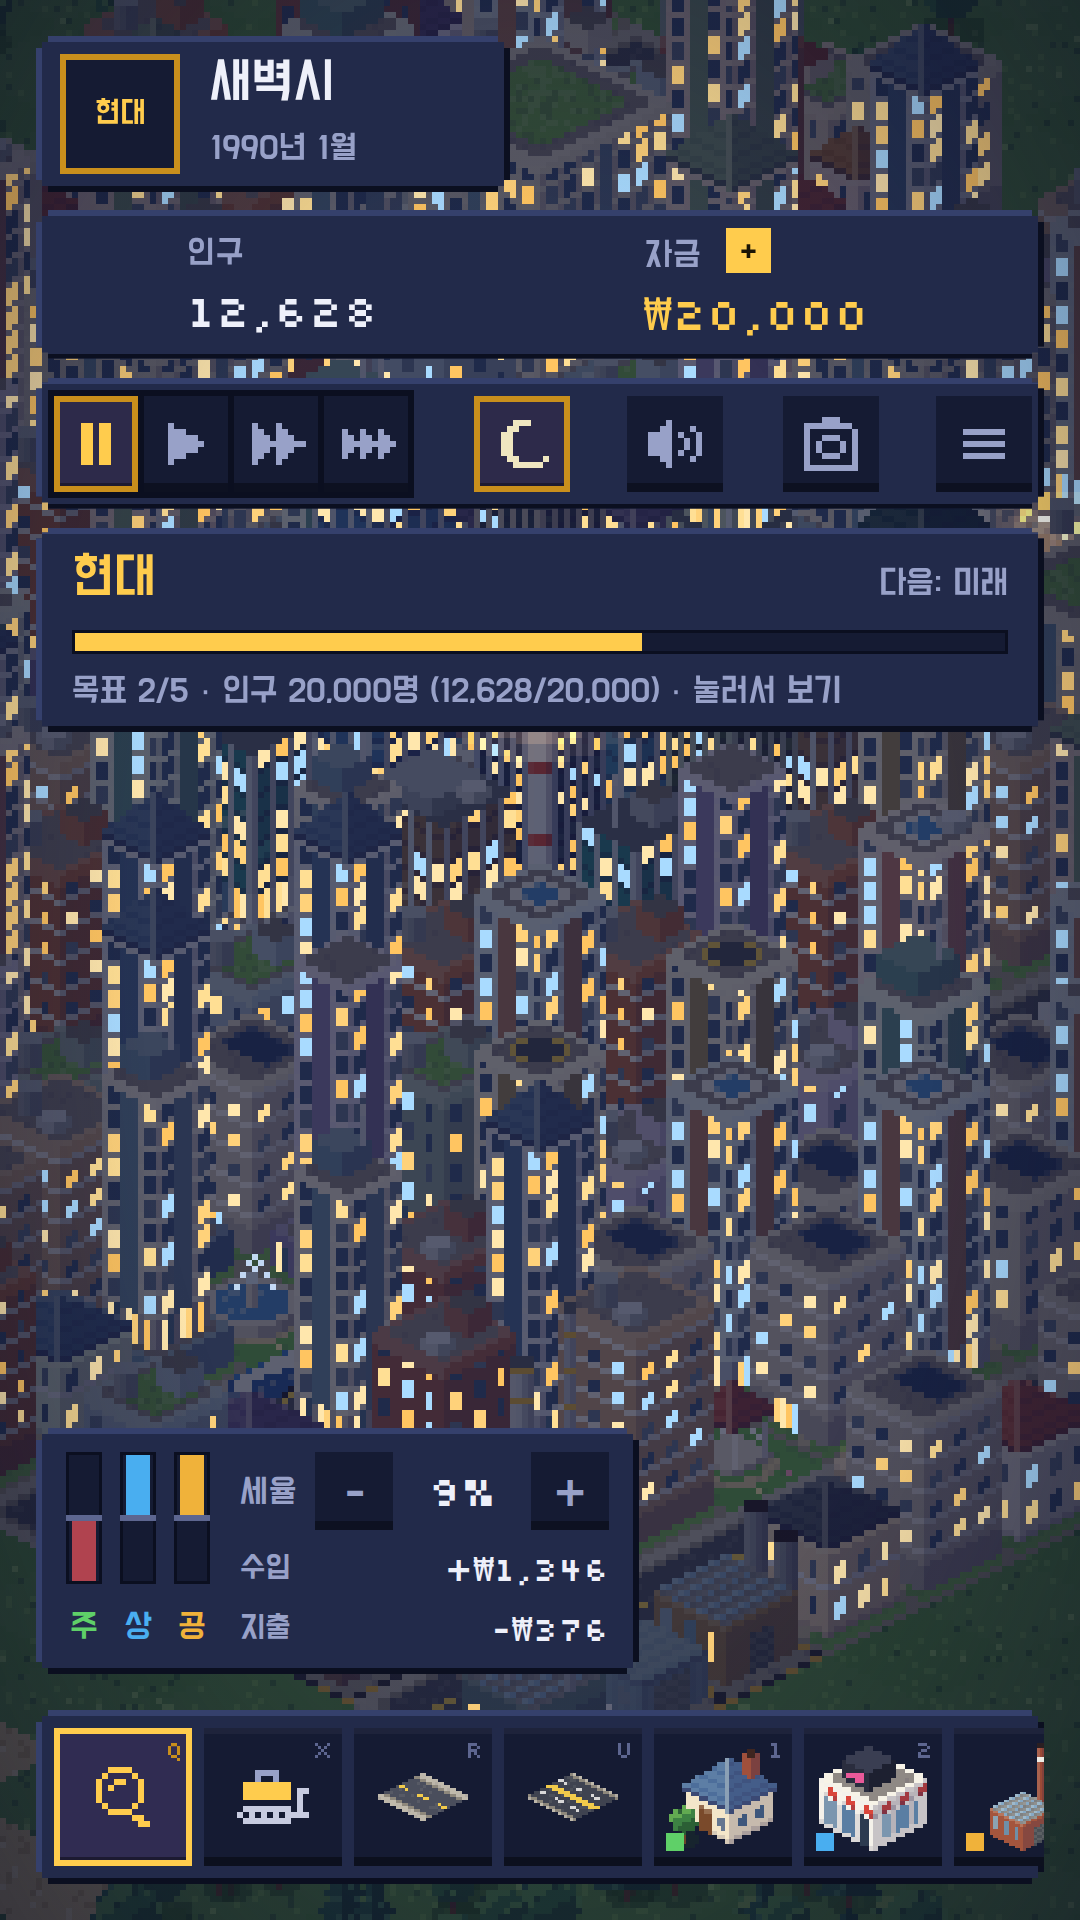
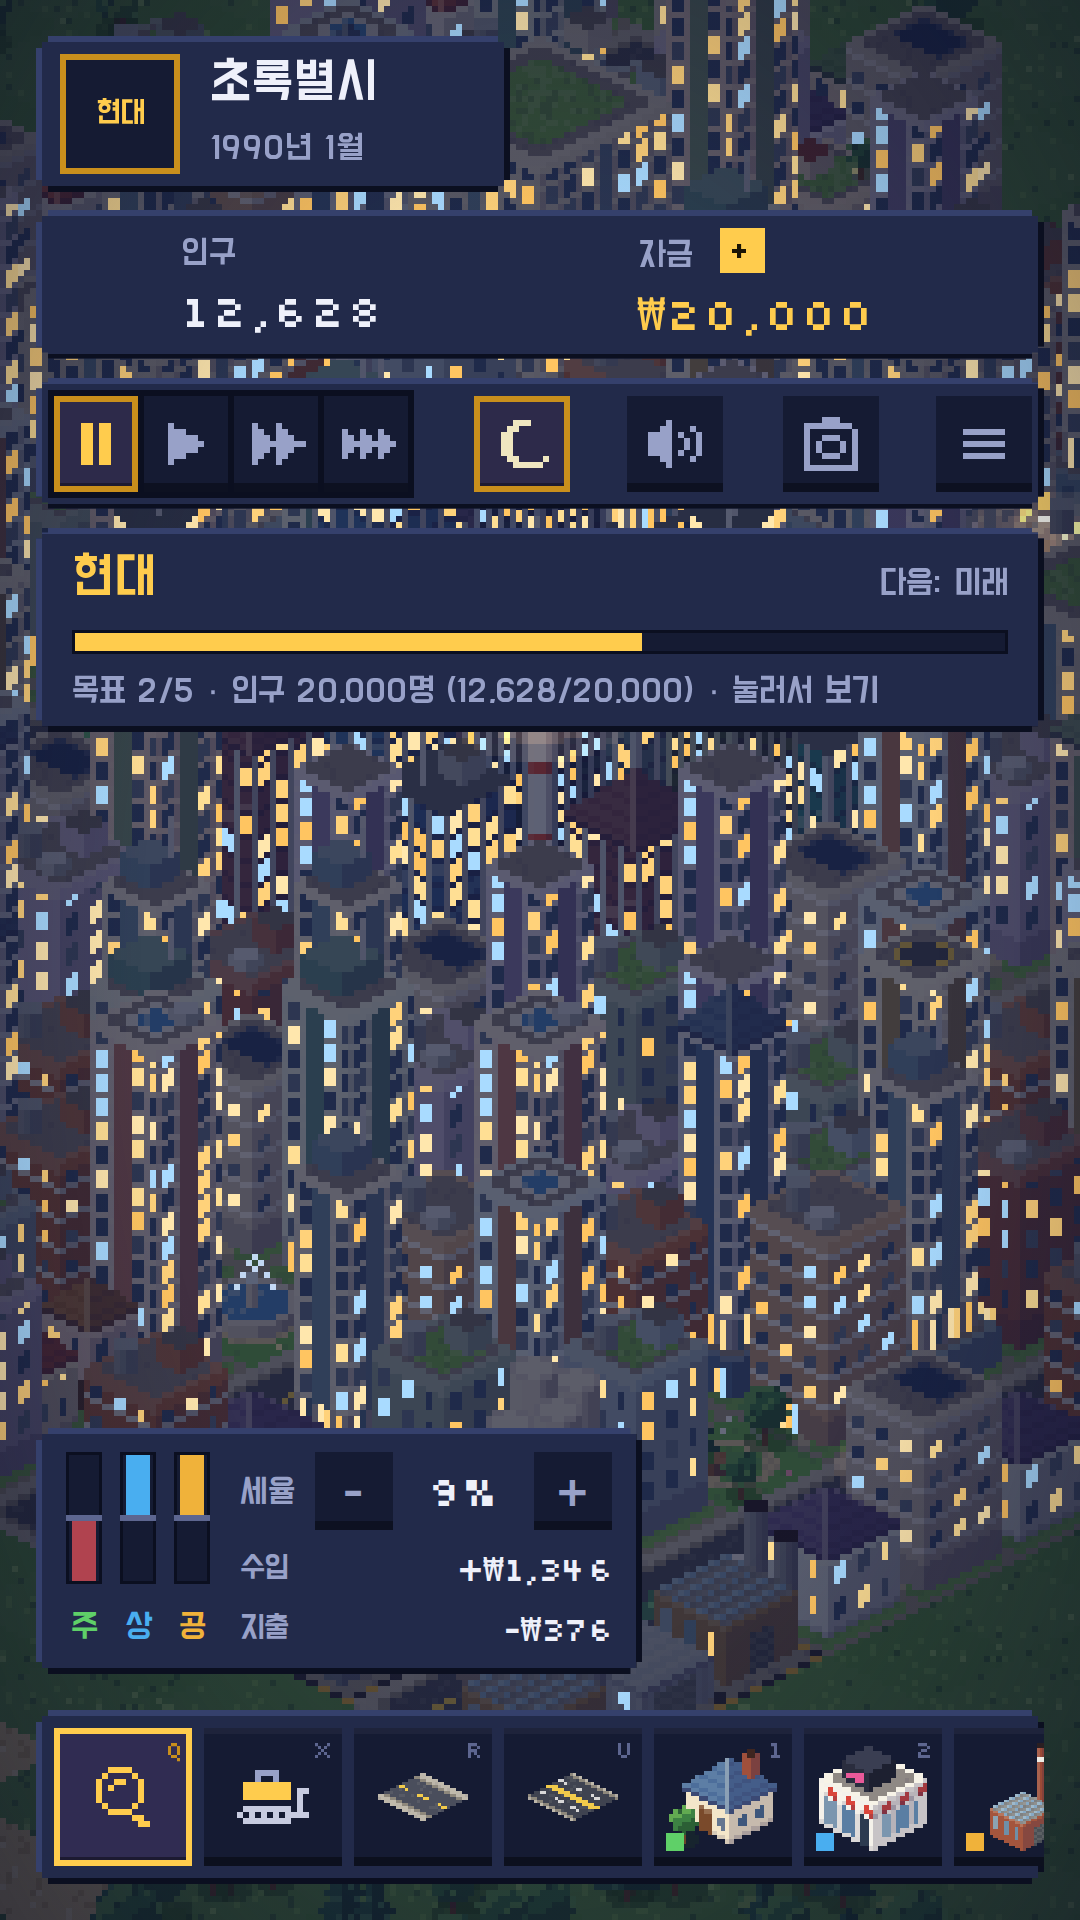
Polish sprites: outlines, lit edges, roof tiles, walking people
Every standing sprite now gets a dark selective outline, lit top edges,
a shaded base course, a brighter near corner and a faint grain. Roofs get
staggered tile joints, rooftop billboards read as metal frames with lit
faces, and pedestrians are 5x9 figures with hair, face, clothes and a
two-step walk facing front or back. Store screenshots regenerated.

Claude-Session: https://claude.ai/code/session_01XxvA4eUhsjPuZbBYtpabHX

diff --git a/dotcity/index.html b/dotcity/index.html
@@ -441,6 +441,8 @@ function nightOf(c){const r=c&255,g=c>>>8&255,b=c>>>16&255,a=c>>>24;return pack(
 function nightCss(hex,f,alpha=1){const[r,g,b]=rgbOf(hex);const k=NA*f;return`rgba(${Math.round(r*(1-k)+NC[0]*k)},${Math.round(g*(1-k)+NC[1]*k)},${Math.round(b*(1-k)+NC[2]*k)},${alpha})`;}
 
 /* ---------------- pixel buffer: every sprite is shaded per pixel ---------------- */
+function tone(v,f){if(v==null)return v;if(typeof v!=='number')return[tone(v[0],f),v[1]!=null?tone(v[1],f*.6):v[1]];const al=v>>>24;if(!al)return v;let r=v&255,g=v>>>8&255,b=v>>>16&255;
+  if(f>0){r+=(255-r)*f;g+=(255-g)*f;b+=(255-b)*f;}else{r*=1+f;g*=1+f;b*=1+f;}return pack(r,g,b,al);}
 class PB{
   constructor(w,h){this.w=w;this.h=h;this.d=new Uint32Array(w*h);this.n=new Uint32Array(w*h);}
   put(x,y,v){if(v==null)return;x|=0;y|=0;if(x<0||y<0||x>=this.w||y>=this.h)return;const i=y*this.w+x;
@@ -449,17 +451,19 @@ class PB{
   box({cx,cy,hw,h,L,R,T}){const hh=hw/2;
     for(let x=Math.floor(cx-hw);x<Math.ceil(cx+hw);x++){const X=x+.5;if(X<cx-hw||X>cx+hw)continue;
       const left=X<cx,a=left?X-(cx-hw):X-cx,eb=left?cy+a/2:cy+hh-a/2,f=left?L:R;if(!f)continue;
-      for(let y=Math.floor(eb-h-1);y<=Math.ceil(eb+1);y++){const b=eb-(y+.5);if(b>=0&&b<h)this.put(x,y,f(a,b,hw,h));}}
+      const corner=left&&a>hw-1;   // the near vertical corner catches the light; the bottom course sits in shade
+      for(let y=Math.floor(eb-h-1);y<=Math.ceil(eb+1);y++){const b=eb-(y+.5);if(b>=0&&b<h){let v=f(a,b,hw,h);if(h>=3&&(b<1||corner))v=tone(v,b<1?-.2:.12);this.put(x,y,v);}}}
     if(T)this.diamond(cx,cy-h,hw,T);}
   diamond(cx,cy,hw,T){const hh=hw/2;
     for(let y=Math.floor(cy-hh);y<Math.ceil(cy+hh);y++)for(let x=Math.floor(cx-hw);x<Math.ceil(cx+hw);x++){
       const dx=x+.5-cx,dy=y+.5-cy;if(Math.abs(dx)/hw+Math.abs(dy)/hh<=1){const u=(dy/hh+dx/hw)/2+.5,v=(dy/hh-dx/hw)/2+.5;this.put(x,y,T(u,v,x,y));}}}
   // hip roof sitting on an eave diamond at (cx,cy)
-  roof(cx,cy,hw,rh,hex){const cl=col(hex,.08),cl2=col(hex,-.06),cr=col(hex,-.26),cr2=col(hex,-.38),cb=col(hex,.24),rid=col(hex,.34),eave=col(hex,-.5);
+  roof(cx,cy,hw,rh,hex){const clj=col(hex,.01),crj=col(hex,-.31),cl=col(hex,.08),cl2=col(hex,-.06),cr=col(hex,-.26),cr2=col(hex,-.38),cb=col(hex,.24),rid=col(hex,.34),eave=col(hex,-.5);
     for(let x=Math.floor(cx-hw);x<Math.ceil(cx+hw);x++){const X=x+.5,left=X<cx,a=left?X-(cx-hw):(cx+hw)-X;if(a<0)continue;
       const yb=cy+a/2,yt=cy-a*rh/hw,yk=cy-a/2;
       for(let y=Math.floor(Math.min(yt,yk)-1);y<=Math.ceil(yb);y++){const Y=y+.5;
-        if(Y<=yb&&Y>=yt){const t=yb-Y;let c=left?(Math.floor(t)%3===2?cl2:cl):(Math.floor(t)%3===2?cr2:cr);
+        if(Y<=yb&&Y>=yt){const t=yb-Y,row=Math.floor(t/3),joint=Math.floor(t)%3!==2&&(x+row*2)%4===0;   // tile courses with staggered joints
+          let c=left?(Math.floor(t)%3===2?cl2:joint?clj:cl):(Math.floor(t)%3===2?cr2:joint?crj:cr);
           if(t<1)c=eave;if(X<cx&&X>cx-1)c=rid;this.put(x,y,c);}
         else if(Y<yt&&Y>=yk)this.put(x,y,cb);}}}
   ell(cx,cy,r,fn){const ry=r/2;for(let y=Math.floor(cy-ry-1);y<=Math.ceil(cy+ry);y++)for(let x=Math.floor(cx-r-1);x<=Math.ceil(cx+r);x++){
@@ -468,7 +472,24 @@ class PB{
   line(x0,y0,x1,y1,c){const n=Math.max(Math.abs(x1-x0),Math.abs(y1-y0))|0;for(let i=0;i<=n;i++){const t=n?i/n:0;this.put(Math.round(x0+(x1-x0)*t),Math.round(y0+(y1-y0)*t),c);}}
 }
 function toCanvas(w,h,arr){const c=document.createElement('canvas');c.width=w;c.height=h;c.getContext('2d').putImageData(new ImageData(new Uint8ClampedArray(arr.buffer.slice(0)),w,h),0,0);return c;}
-function mk(pb,ox,oy,night=true,meta){const s={c:toCanvas(pb.w,pb.h,pb.d),ox,oy,w:pb.w,h:pb.h};if(night)s.n=toCanvas(pb.w,pb.h,pb.n);
+// pixel-art finish for standing sprites: lit top edges, crisp face seams, a faint grain, a soft contact line at the base,
+// and a dark selective outline so shapes read clearly against the ground
+let POLISH=true;
+function polish(pb){const W2=pb.w,H2=pb.h,src=pb.d.slice(),srcN=pb.n.slice(),A=i=>src[i]>>>24>160;
+  const sh=(c,f)=>{const a=c>>>24;if(!a)return c;let r=c&255,g=c>>>8&255,b=c>>>16&255;if(f>0){r+=(255-r)*f;g+=(255-g)*f;b+=(255-b)*f;}else{r*=1+f;g*=1+f;b*=1+f;}return pack(r,g,b,a);};
+  const lum=c=>(c&255)*.3+(c>>>8&255)*.59+(c>>>16&255)*.11;
+  for(let y=0;y<H2;y++)for(let x=0;x<W2;x++){const i=y*W2+x;
+    if(A(i)){let f=(hash(x,y,313)-.5)*.06;                                   // grain
+      if(y===0||!A(i-W2))f+=.16;                                               // light on top edges
+      else if(y<H2-1&&A(i+W2)&&x<W2-1&&A(i+1)){const d=lum(src[i])-lum(src[i+1]);if(d>38)f+=.06;}   // brighter face meets darker face
+      if(y<H2-1&&!A(i+W2))f-=.12;                                              // base touches the ground
+      if(f){pb.d[i]=sh(src[i],f);pb.n[i]=sh(srcN[i],f*.6);}continue;}
+    if(src[i]>>>24)continue;
+    let nb=-1;for(const j of[x>0?i-1:-1,x<W2-1?i+1:-1,y>0?i-W2:-1,y<H2-1?i+W2:-1])if(j>=0&&A(j)){nb=j;break;}
+    if(nb<0)continue;const o=src[nb],on=srcN[nb];
+    const dk=c=>pack((c&255)*.32+8,(c>>>8&255)*.3+8,(c>>>16&255)*.34+14,y>0&&A(i-W2)?235:150);   // under-side outline is solid, top-side softer
+    pb.d[i]=dk(o);pb.n[i]=dk(on);}}
+function mk(pb,ox,oy,night=true,meta){if(night&&POLISH&&!(meta&&meta.raw))polish(pb);const s={c:toCanvas(pb.w,pb.h,pb.d),ox,oy,w:pb.w,h:pb.h};if(night)s.n=toCanvas(pb.w,pb.h,pb.n);
   let top=pb.h;for(let y=0;y<pb.h&&top===pb.h;y++)for(let x=0;x<pb.w;x++)if(pb.d[y*pb.w+x]>>>24){top=y;break;}s.top=oy+top;if(meta)Object.assign(s,meta);return s;}
 function G(fn){const pb=new PB(32,16);for(let y=0;y<16;y++)for(let x=0;x<32;x++){const X=x+.5-16,Y=y+.5,u=(Y/8+X/16)/2,v=(Y/8-X/16)/2;if(u<0||u>=1||v<0||v>=1)continue;pb.put(x,y,fn(u,v,x,y));}return mk(pb,-16,0,false);}
 
@@ -809,12 +830,12 @@ function buildSprites(){
     const awning=(a,b,t)=>(Math.floor(a/2)%2)?col(aw,(b<7.6?-.2:0)+t):col('#f7f3ea',(b<7.6?-.15:0)+t);
     const brand=(a,b,t)=>(b>=7.4&&b<8.6&&(a|0)%2&&hash(a|0,0,s)<.7)?[col('#ffffff',t),col('#ffffff')]:[col(aw,t),col(aw,.2)];
     if(type===0||type===1){pb.box({cx,cy:cy-1,hw:12,h:10,L:shopL(12,type?brand:awning),R:shopR(12,type?brand:awning),T:roofTop('flat',wall)});
-      if(type===0)pb.box({cx:cx-1,cy:cy-11,hw:6,h:4,L:(a,b)=>(a>=1&&a<5&&b>=.8&&b<3.2&&hash(a|0,b|0,s)<.6)?[col(neon,-.1),col(neon)]:col('#2a2d3e'),R:()=>col('#1d2030'),T:()=>col('#3a3e52')});
+      if(type===0)pb.box({cx:cx-1,cy:cy-11,hw:6,h:4,L:(a,b)=>(a>=1&&a<5&&b>=.8&&b<3.2&&hash(a|0,b|0,s)<.85)?[col(neon,-.1),col(neon)]:col('#4a5068'),R:()=>col('#363b4f'),T:()=>col('#646a80')});
       else{P.ac(pb,cx+3,cy-11);if(r()<.5)P.ac(pb,cx-4,cy-10);}}
     else if(type===2){pb.box({cx:cx+3,cy:cy-3,hw:9,h:9,L:shopL(9,awning),R:shopR(9,awning),T:roofTop('garden',wall)});
       [[cx-8,cy+1],[cx-2,cy+5]].forEach(([ux,uy],j)=>{for(let i=0;i<4;i++)pb.put(ux,uy-i,col('#6a5a4a'));pb.ell(ux,uy-4,3.2,(dx,dy)=>col(j?aw:'#f7f3ea',dx>.2?-.2:0));});}
     else{pb.box({cx,cy:cy-1,hw:11,h:8,L:shopL(11,(a,b,t)=>col(wall,t-.1)),R:shopR(11,(a,b,t)=>col(wall,t-.1)),T:()=>col(wall)});pb.roof(cx,cy-9,13,5,aw);
-      pb.box({cx:cx-6,cy:cy-6,hw:3,h:5,L:(a,b)=>b>1&&b<4&&a>.5&&a<2.5?[col(neon,-.2),col(neon)]:col('#2a2d3e'),R:()=>col('#1d2030'),T:()=>col('#3a3e52')});}
+      pb.box({cx:cx-6,cy:cy-6,hw:3,h:5,L:(a,b)=>b>1&&b<4&&a>.5&&a<2.5?[col(neon,-.2),col(neon)]:col('#4a5068'),R:()=>col('#363b4f'),T:()=>col('#646a80')});}
     SP.bld[C][1].push(mk(pb,-16,16-H));}
 
   /* commercial L2: offices, billboards, brick blocks */
@@ -826,7 +847,7 @@ function buildSprites(){
     const sh=type%2?grid:ribbon;
     pb.box({cx,cy:cy-1,hw:12,h:hgt,L:sh(0,0),R:sh(-.22,1),T:roofTop(type===3?'garden':'flat',wall)});
     const ty=cy-1-hgt;
-    if(type===1){pb.box({cx:cx-2,cy:ty-1,hw:7,h:6,L:(a,b)=>{const c=['#ff5f7a','#ffd84a','#5fe0ff','#9aff6a'][(Math.floor(a/2)+Math.floor(b/2)+v)%4];return a>.8&&a<6.2&&b>.8&&b<5.2?[col(c,-.1),col(c)]:col('#2a2d3e');},R:()=>col('#1d2030'),T:()=>col('#3a3e52')});}
+    if(type===1){pb.box({cx:cx-2,cy:ty-1,hw:7,h:6,L:(a,b)=>{const c=['#ff5f7a','#ffd84a','#5fe0ff','#9aff6a'][(Math.floor(a/2)+Math.floor(b/2)+v)%4];return a>.8&&a<6.2&&b>.8&&b<5.2?[col(c,-.1),col(c)]:col('#4a5068');},R:()=>col('#363b4f'),T:()=>col('#646a80')});}
     else{P.ac(pb,cx+4,ty-1);if(r()<.6)P.ac(pb,cx-4,ty);}
     SP.bld[C][2].push(mk(pb,-16,16-H));}
 
@@ -1245,11 +1266,26 @@ function buildSprites(){
       lotSet((u,v,x,y)=>col(PAL.asph,hash(x,y,9)<.1?.07:0),()=>col(PAL.curb))];
     SP.consOld=mk1(44,(pb,cx,cy)=>{pb.box({cx,cy:cy-1,hw:9,h:9,L:(a,b)=>(a<1||a>=8.2||(b|0)%4===0)?col('#7a5233'):null,R:(a,b)=>(a<1||a>=8.2||(b|0)%4===0)?col('#5a3a22'):null});for(let k=0;k<5;k++)pb.put(cx+6+(k%2),cy+3-(k>>1),col('#c9a45a'));});
     const vehSet=pal=>[0,1,2,3].map(d=>{const map=d%2?carY:carX,rev=d>=2;const pb=new PB(6,4);map.forEach((r2,y)=>[...r2].forEach((ch,x)=>{if(ch==='.')return;let k=ch;if(rev){if(ch==='h')k='t';else if(ch==='t')k='h';}if(pal[k]!=null)pb.put(x,y,pal[k]);}));return mk(pb,-3,-3);});
-    const walker=body=>{const pb=new PB(3,5);pb.put(1,0,col('#2a1d14'));pb.put(1,1,col('#e0b088'));pb.put(0,2,col(body,-.1));pb.put(1,2,col(body));pb.put(2,2,col(body,-.2));pb.put(1,3,col(body,-.1));pb.put(0,4,col('#3a2a20'));pb.put(2,4,col('#3a2a20'));const sp=mk(pb,-1,-5);return[sp,sp,sp,sp];};
-    SP.veh=[['#8a6a44','#a8865a','#6a5236','#c9a070'].map(walker),
-      [...['#e8e0c8','#c9b896'].map(walker),vehSet({t:col('#5a3a22'),l:col('#d9b45a'),d:col('#5a3a22'),w:col('#8a5a34'),h:col('#6a4428')})],
-      [...['#f2ede0','#e8e4dc','#3a5a8a'].map(walker),vehSet({t:col('#4a3020'),l:col('#f2ede0'),d:col('#6a4428'),w:col('#7a4a2a'),h:col('#3a2418')})],
-      [carVintage('#2a2a30'),carVintage('#5a2a2a'),carVintage('#2f4a3a'),...['#3a3a4a','#6a4a3a'].map(walker)],
+    // people: 5x9 figures (hair, face, shirt with arms, trousers, shoes) facing front or back, with a two-step walk
+    const HAIR=['#2a1d14','#4a2e1a','#151318','#7a4a24','#b8863e','#5a5560'],SKIN=['#f0c49a','#e0aa7e','#c98e62','#f6d2b0'];
+    const walker=(body,pants)=>{let hs=0;for(const ch of body)hs=hs*31+ch.charCodeAt(0)|0;hs=Math.abs(hs);
+      const hair=col(HAIR[hs%HAIR.length]),skin=col(SKIN[(hs>>3)%SKIN.length]),skinD=col(SKIN[(hs>>3)%SKIN.length],-.18),sh=col(body),shD=col(body,-.22),shL=col(body,.14),
+        pa=col(pants||(hs&1?'#34405e':'#3e3530')),paD=col(pants||(hs&1?'#34405e':'#3e3530'),-.25),shoe=col('#1e1a1a');
+      const fig=(back,flip,step)=>{const pb=new PB(7,11),P=(x,y,c)=>pb.put(flip?6-x:x,y,c);
+        P(2,1,hair);P(3,1,hair);P(4,1,hair);
+        if(back){P(2,2,hair);P(3,2,hair);P(4,2,hair);P(2,3,hair);P(3,3,col(HAIR[hs%HAIR.length],-.15));P(4,3,hair);}
+        else{P(2,2,hair);P(3,2,skin);P(4,2,skin);P(2,3,skinD);P(3,3,skin);P(4,3,skin);}
+        for(let x=1;x<=5;x++)P(x,4,x===1||x===5?shD:x===2?shL:sh);
+        P(1,5,shD);P(2,5,shL);P(3,5,sh);P(4,5,sh);P(5,5,shD);
+        P(1,6,step?shD:skinD);P(2,6,sh);P(3,6,sh);P(4,6,shD);P(5,6,step?skinD:shD);if(!step){P(1,6,skin);}
+        P(2,7,pa);P(3,7,pa);P(4,7,paD);
+        if(step){P(2,8,pa);P(4,8,paD);P(2,9,shoe);P(4,9,shoe);}else{P(3,8,pa);P(2,8,paD);P(3,9,shoe);P(2,9,shoe);}
+        const sp=mk(pb,-3,-10);sp.g=0;return sp;};
+      return[0,1,2,3].map(d=>{const back=d>=2,flip=d===1||d===2,a=fig(back,flip,0);a.alt=fig(back,flip,1);return a;});};
+    SP.veh=[['#8a6a44','#a8865a','#6a5236','#c9a070'].map(b=>walker(b)),
+      [...['#e8e0c8','#c9b896'].map(b=>walker(b)),vehSet({t:col('#5a3a22'),l:col('#d9b45a'),d:col('#5a3a22'),w:col('#8a5a34'),h:col('#6a4428')})],
+      [...['#f2ede0','#e8e4dc','#3a5a8a'].map(b=>walker(b)),vehSet({t:col('#4a3020'),l:col('#f2ede0'),d:col('#6a4428'),w:col('#7a4a2a'),h:col('#3a2418')})],
+      [carVintage('#2a2a30'),carVintage('#5a2a2a'),carVintage('#2f4a3a'),...['#3a3a4a','#6a4a3a'].map(b=>walker(b))],
       SP.car];
     SP.icoFire=mk(bitmapPB(["..#.",".##.","####",".##."],{'#':'#ff8a2a'},'#2a1005'),-2,0,false);
     SP.icoWater=mk(bitmapPB([".#..","###.","###.",".#.."],{'#':'#5fb0ff'},'#0a1a2a'),-2,0,false);
@@ -2387,7 +2423,7 @@ function bigAt(x,y){const ax=x&~1,ay=y&~1;if(ax+1>=N||ay+1>=N||hash(ax,ay,5)>.6)
 function bigSprite(a){const k=W.kind[a];let mn=9;for(const j of[a,a+1,a+N,a+N+1])mn=Math.min(mn,W.level[j]);const arr=SP.big[k][k!==K.IND&&mn>=4?1:0];return arr[(hash(a%N,a/N|0,6)*arr.length)|0];}
 function drawCar(c,car){const gx=car.x+.5+DIRS[car.d][0]*car.t,gy=car.y+.5+DIRS[car.d][1]*car.t,pd=[-DIRS[car.d][1],DIRS[car.d][0]];
   const lx=gx+pd[0]*.16,ly=gy+pd[1]*.16,sx=Math.round((lx-ly)*16-X0);let sy=Math.round((lx+ly)*8-Y0);
-  const tx=Math.floor(gx),ty=Math.floor(gy);if(isBridge(tx,ty)){const bk=bridgeKey(tx,ty),ax=bk>>2;sy-=Math.round(bridgeLift(Math.min(5,W.te[idx(tx,ty)]),bk&1,bk>>1&1,ax?gy-ty:gx-tx));}const sp=car.em>=0&&SP.emer[car.e]?SP.emer[car.e][car.em][car.d]:(SP.veh[car.e]||SP.car)[car.c][car.d];drawSpr(c,sp,sx,sy);
+  const tx=Math.floor(gx),ty=Math.floor(gy);if(isBridge(tx,ty)){const bk=bridgeKey(tx,ty),ax=bk>>2;sy-=Math.round(bridgeLift(Math.min(5,W.te[idx(tx,ty)]),bk&1,bk>>1&1,ax?gy-ty:gx-tx));}let sp=car.em>=0&&SP.emer[car.e]?SP.emer[car.e][car.em][car.d]:(SP.veh[car.e]||SP.car)[car.c][car.d];if(sp.alt&&((now/190+car.x*3+car.y*5)|0)%2)sp=sp.alt;drawSpr(c,sp,sx,sy);
   if(car.st==='work'&&car.fire!=null){const f=car.fire,tx=(f%N-(f/N|0))*16-X0,ty=((f%N)+(f/N|0))*8+8-Y0-8,x0=sx,y0=sy-5;   // water arc onto the fire
     for(let k=0;k<16;k++){const u=((now/420+k/16)%1),x=x0+(tx-x0)*u,y=y0+(ty-y0)*u-Math.sin(u*Math.PI)*14;c.fillStyle=nightCss(k%2?'#8fd0ff':'#ffffff',nightF*.4,.95);c.fillRect(Math.round(x),Math.round(y),2,k%3?1:2);}
     if(SPEEDS[speed]&&Math.random()<.25&&parts.length<700)parts.push({x:tx+X0+(Math.random()-.5)*10,y:ty+Y0,vx:(Math.random()-.5)*6,vy:-6-Math.random()*4,life:0,max:1.6,sz:2,kind:'steam',g:0});}
